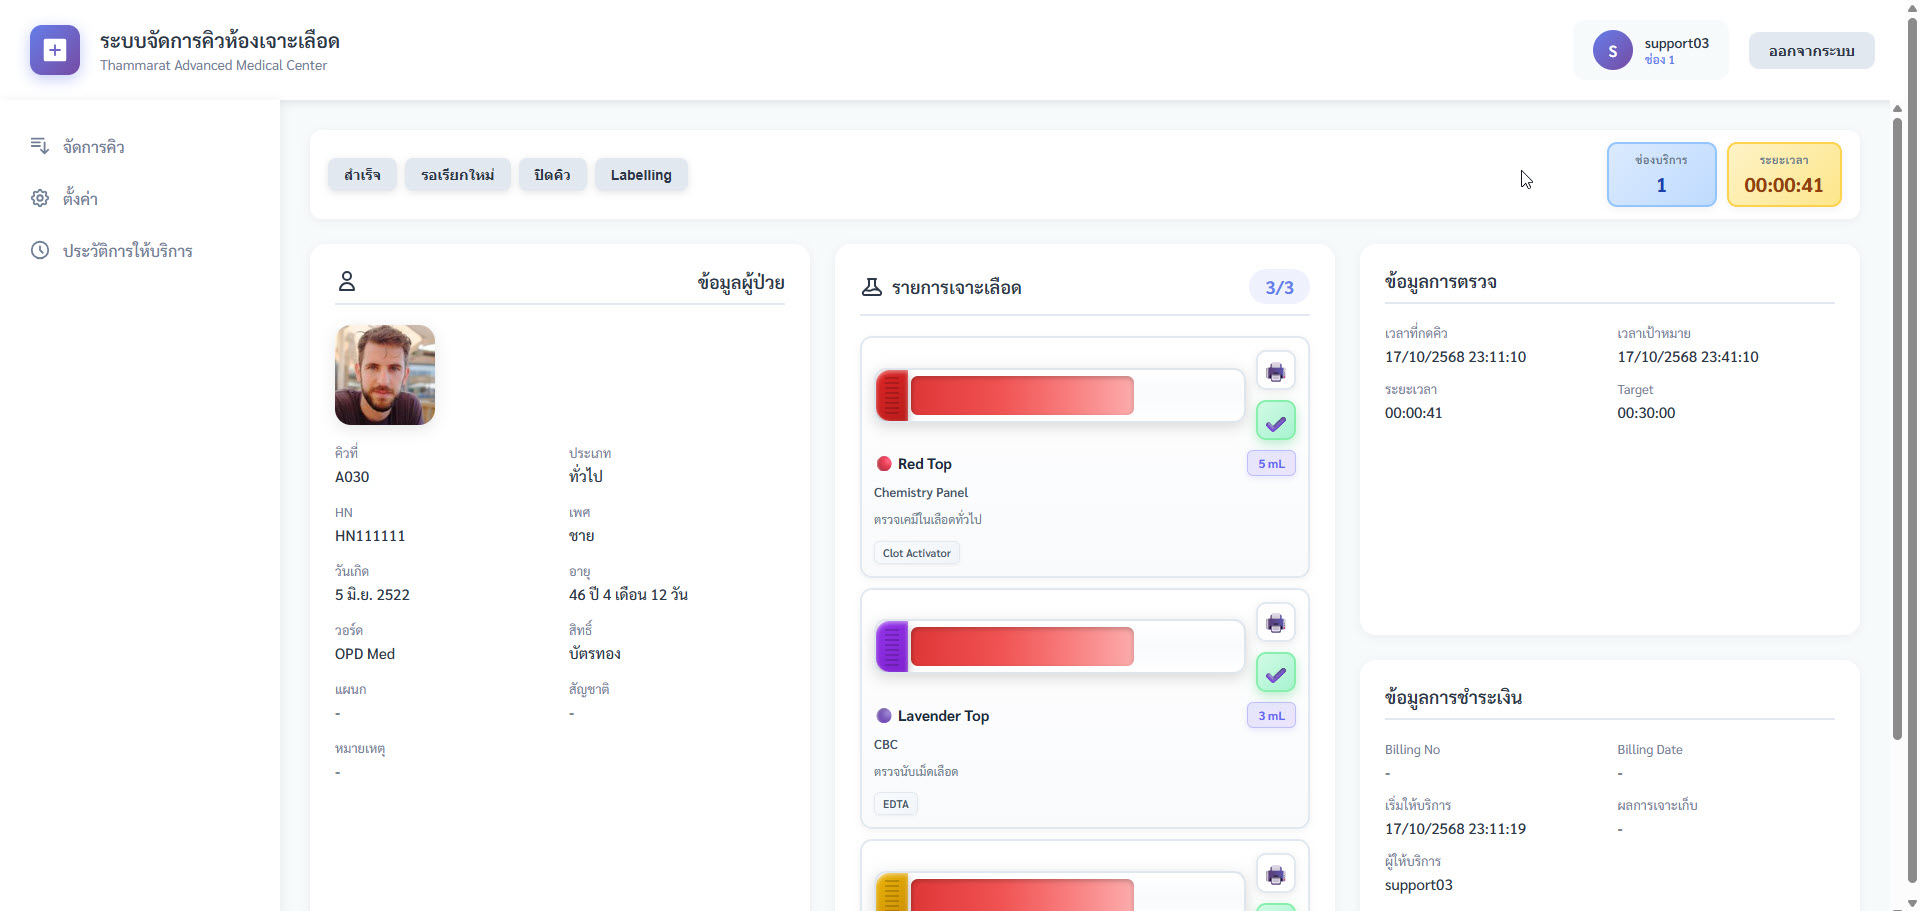
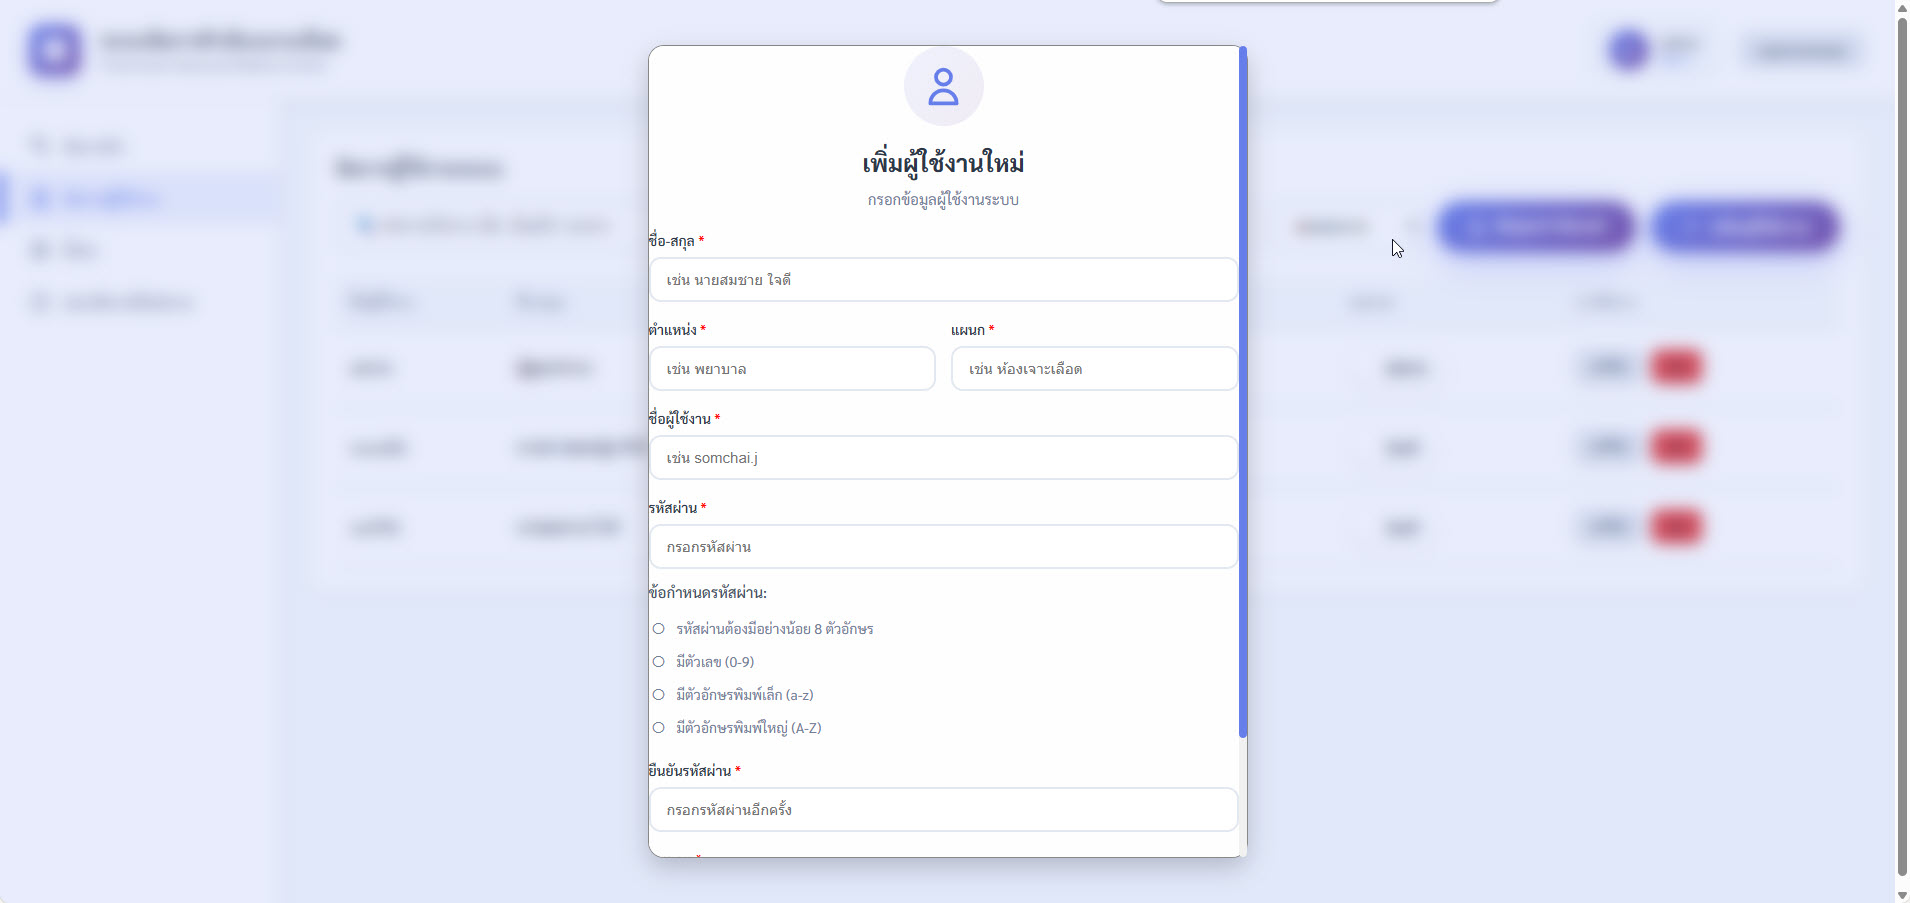
feat: Enhance user modal styling and layout for improved usability and responsiveness

diff --git a/blood-test-queue-management.html b/blood-test-queue-management.html
@@ -158,15 +158,27 @@
       .modal-content {
         background: white;
         border-radius: 24px;
-        padding: 40px 50px;
-        max-width: 500px;
+        padding: 45px 60px;
+        max-width: 700px;
         width: 90%;
-        max-height: 90vh;
+        max-height: 95vh;
         overflow-y: auto;
         text-align: center;
         box-shadow: 0 20px 60px rgba(0, 0, 0, 0.25);
         animation: slideUp 0.4s ease-out;
         position: relative;
+      }
+
+      #userModalContent {
+        padding: 50px 70px !important;
+        max-width: 750px !important;
+        width: 88% !important;
+      }
+
+      #userModalContent form {
+        display: flex;
+        flex-direction: column;
+        gap: 8px;
       }
 
       /* Custom Scrollbar for Modal */
@@ -224,25 +236,26 @@
       }
 
       .modal-form-group {
-        margin-bottom: 18px;
+        margin-bottom: 25px;
         text-align: left;
       }
 
       .modal-form-group label {
         display: block;
-        font-size: 14px;
+        font-size: 15px;
         color: #2d3748;
-        margin-bottom: 8px;
+        margin-bottom: 10px;
         font-weight: 500;
       }
 
       .modal-form-group input {
         width: 100%;
-        padding: 12px 16px;
+        padding: 13px 18px;
         font-size: 15px;
         border: 2px solid #e2e8f0;
         border-radius: 12px;
         transition: all 0.3s ease;
+        box-sizing: border-box;
       }
 
       .modal-form-group input:focus {
@@ -352,13 +365,14 @@
 
       .modal-form-group select {
         width: 100%;
-        padding: 14px 18px;
-        font-size: 16px;
+        padding: 13px 18px;
+        font-size: 15px;
         border: 2px solid #e2e8f0;
         border-radius: 12px;
         transition: all 0.3s ease;
         background: white;
         cursor: pointer;
+        box-sizing: border-box;
       }
 
       .modal-form-group select:focus {
@@ -368,11 +382,32 @@
       }
 
       /* Responsive Modal */
+      @media (max-width: 1024px) {
+        .modal-content {
+          padding: 40px 50px;
+          max-width: 600px;
+          width: 90%;
+        }
+
+        #userModalContent {
+          padding: 45px 60px !important;
+          max-width: 680px !important;
+          width: 86% !important;
+        }
+      }
+
       @media (max-width: 768px) {
         .modal-content {
-          padding: 30px 25px;
-          width: 95%;
-          max-height: 85vh;
+          padding: 35px 40px;
+          width: 88%;
+          max-height: 92vh;
+          max-width: 550px;
+        }
+
+        #userModalContent {
+          padding: 40px 50px !important;
+          max-width: 600px !important;
+          width: 85% !important;
         }
 
         .modal-icon {
@@ -387,7 +422,7 @@
         }
 
         .modal-content h2 {
-          font-size: 20px;
+          font-size: 22px;
           margin-bottom: 8px;
         }
 
@@ -401,19 +436,19 @@
         }
 
         .modal-form-group label {
-          font-size: 13px;
+          font-size: 14px;
           margin-bottom: 6px;
         }
 
         .modal-form-group input,
         .modal-form-group select {
-          padding: 10px 14px;
-          font-size: 14px;
+          padding: 11px 14px;
+          font-size: 15px;
         }
 
         .btn-submit,
         .btn-cancel {
-          padding: 10px 30px;
+          padding: 11px 35px;
           font-size: 15px;
           width: 48%;
         }
@@ -426,8 +461,41 @@
 
       @media (max-width: 480px) {
         .modal-content {
-          padding: 25px 20px;
-          width: 98%;
+          padding: 30px 22px;
+          width: 94%;
+          max-width: 100%;
+          border-radius: 16px;
+        }
+
+        #userModalContent {
+          padding: 35px 30px !important;
+          max-width: 100% !important;
+          width: 92% !important;
+        }
+
+        .modal-content h2 {
+          font-size: 21px;
+        }
+
+        .modal-form-group {
+          margin-bottom: 20px;
+        }
+
+        .modal-form-group label {
+          font-size: 15px;
+          margin-bottom: 8px;
+        }
+
+        .modal-form-group input,
+        .modal-form-group select {
+          padding: 12px 14px;
+          font-size: 16px;
+        }
+
+        /* Grid Form Layout for Mobile */
+        div[style*="grid-template-columns: 1fr 1fr"] {
+          grid-template-columns: 1fr !important;
+          gap: 18px !important;
         }
 
         .btn-submit,
@@ -435,10 +503,17 @@
           width: 100%;
           margin-left: 0;
           margin-top: 8px;
+          padding: 10px 30px;
+          font-size: 14px;
         }
 
         .btn-submit {
           order: -1;
+        }
+
+        .password-requirement {
+          font-size: 12px;
+          padding: 3px 0;
         }
       }
 
@@ -2506,7 +2581,7 @@
 
     <!-- User Management Modal -->
     <div class="modal-overlay" id="userModal">
-      <div class="modal-content" style="max-width: 600px">
+      <div class="modal-content" id="userModalContent">
         <div class="modal-icon">
           <svg fill="none" stroke="currentColor" viewBox="0 0 24 24">
             <path
@@ -2535,7 +2610,7 @@
             />
           </div>
 
-          <div style="display: grid; grid-template-columns: 1fr 1fr; gap: 15px">
+          <div style="display: grid; grid-template-columns: 1fr 1fr; gap: 20px; width: 100%">
             <div class="modal-form-group">
               <label for="userPosition"
                 >ตำแหน่ง <span style="color: red">*</span></label
@@ -2640,15 +2715,16 @@
             style="
               display: flex;
               justify-content: center;
-              gap: 10px;
-              margin-top: 25px;
+              gap: 12px;
+              margin-top: 30px;
               flex-wrap: wrap;
+              width: 100%;
             "
           >
-            <button type="submit" class="btn-submit" id="userSubmitBtn">
+            <button type="submit" class="btn-submit" id="userSubmitBtn" style="flex: 1; min-width: 120px">
               บันทึก
             </button>
-            <button type="button" class="btn-cancel" onclick="closeUserModal()">
+            <button type="button" class="btn-cancel" onclick="closeUserModal()" style="flex: 1; min-width: 120px">
               ยกเลิก
             </button>
           </div>
@@ -4066,6 +4142,10 @@
                   alt="Patient Photo"
                 />
                 <div class="patient-info-grid-new">
+                  <div class="info-item">
+                    <div class="label">ชื่อ - นามสกุล</div>
+                    <div class="value" id="detail-patient-name">-</div>
+                  </div>
                   <div class="info-item">
                     <div class="label">คิวที่</div>
                     <div class="value" id="detail-queue-no">-</div>
@@ -5720,6 +5800,7 @@
               document.getElementById("detail-channel").textContent =
                 queue.calledByCounter || "-";
               document.getElementById("detail-patient-photo").src = queue.photo;
+              document.getElementById("detail-patient-name").textContent = queue.name || "-";
               document.getElementById("detail-queue-no").textContent = queue.id;
               document.getElementById("detail-type").textContent =
                 typeLabels[queue.type] || "-";
